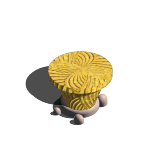
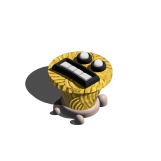
updated nail and mine gfx

diff --git a/Assets/Scripts/Grid/GridElement.cs b/Assets/Scripts/Grid/GridElement.cs
@@ -11,12 +11,14 @@ public class GridElement : MonoBehaviour{
     public Grid grid;
 
     [Header("Grid Element")]
-    new public string name;
     public Vector2 coord;
     public bool selectable, targeted;
     public PolygonCollider2D hitbox;
     public ElementCanvas elementCanvas;
+
+    [Header("UI/UX")]
     public List<SpriteRenderer> gfx;
+    new public string name;
 
 
     public delegate void OnElementUpdate(GridElement ge);

diff --git a/Assets/Scripts/UI/UnitUI.cs b/Assets/Scripts/UI/UnitUI.cs
@@ -23,6 +23,8 @@ public class UnitUI : MonoBehaviour
         unit = u;
         unitName.text = u.name;
         portrait.sprite = u.portrait;
+        gfx.sprite = u.gfx[0].sprite;
+
         if (u is PlayerUnit) {
             UpdateEquipmentButtons();
             ToggleEquipmentPanel(false);

diff --git a/Assets/Scripts/Grid/Mine.cs b/Assets/Scripts/Grid/Mine.cs
@@ -4,7 +4,10 @@ using UnityEngine;
 
 public class Mine : Unit
 {
-   
+    public override IEnumerator CollideFromAbove(Vector2 moveTo) {
+        yield return null;
+        UpdateElement(moveTo);
+        StartCoroutine(TakeDamage(hpCurrent));
 
-
+    }
 }
